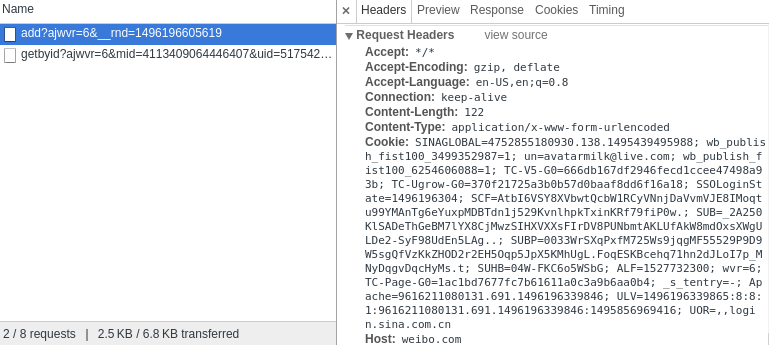
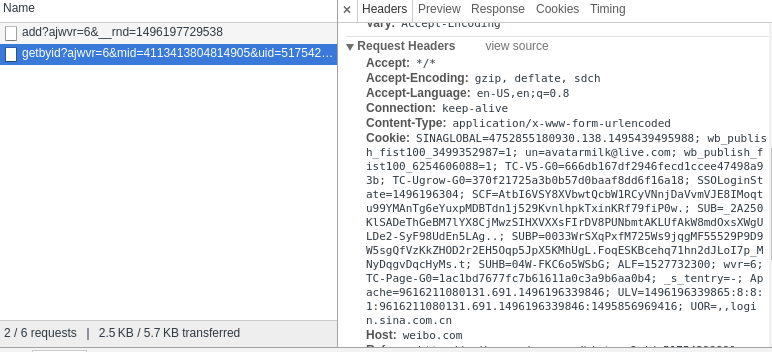
update

Changed region(s): [[0.0, 0.0, 1.0, 1.0], [0.4057, 0.8986, 0.4369, 0.9275]]

diff --git a/README.md b/README.md
@@ -12,7 +12,7 @@
 前往 [微博私信小冰页面](http://weibo.com/message/history?uid=5175429989&name=%E5%B0%8F%E5%86%B0)  
 按F12 然后给小冰发送一条消息 如下图  
 ![](./img/step1.png)  
-点击第一个 将Request Headers中的所有信息复制到headers.txt中  
+点击第二个 将Request Headers中的所有信息复制到headers.txt中  
 ![](./img/step2.png)
 
 
